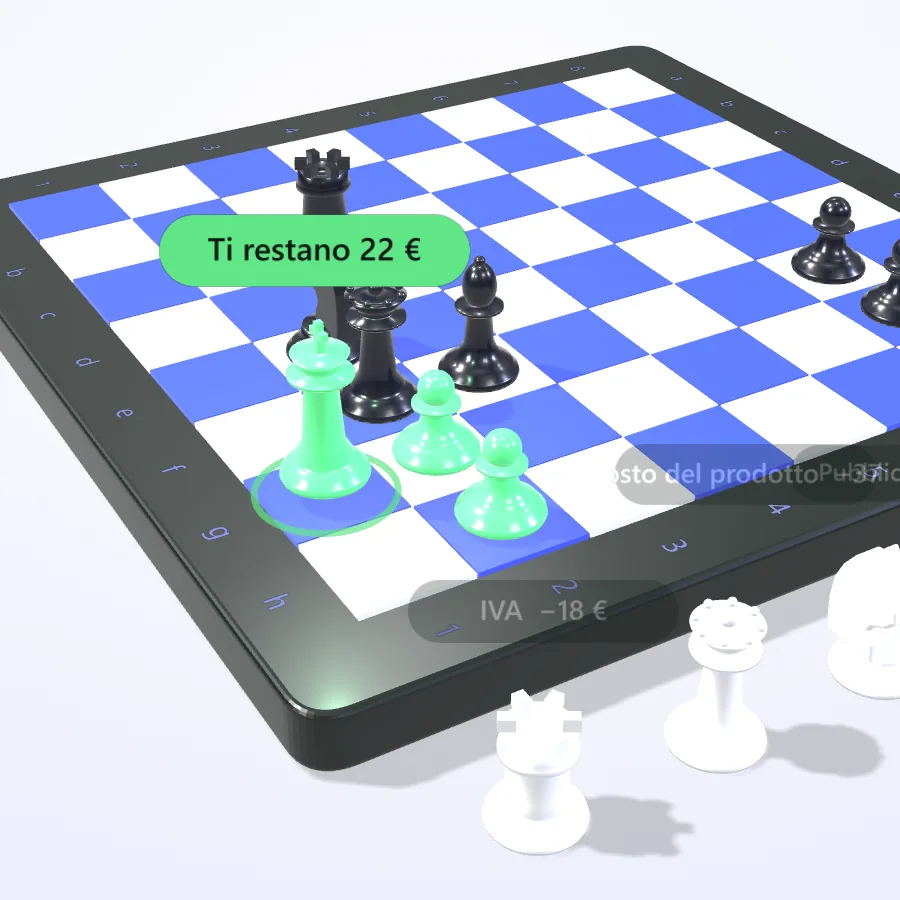
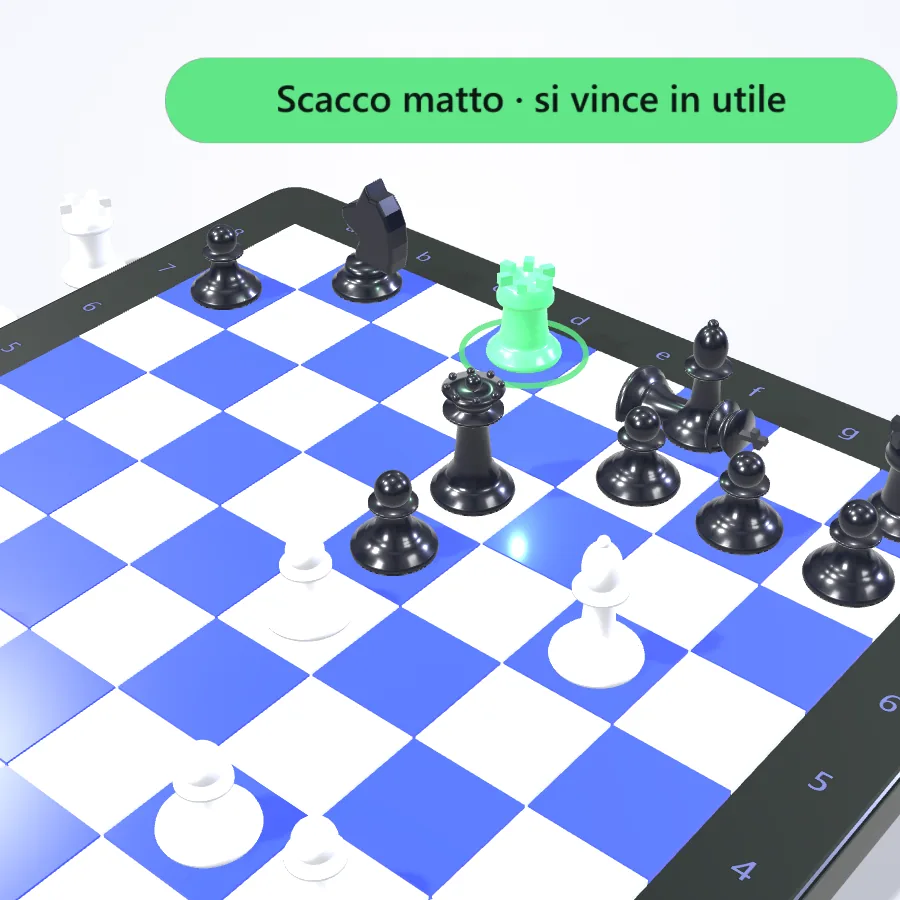
Home: la partita la vinciamo noi (Antonio, 29/10)
Finale dell'Opera Game di Morphy (Parigi 1858): ogni mossa bianca è un servizio
(feed, tracciamento, SEO e GEO, campagne col sacrificio della donna, i conti col matto).
Sotto la scacchiera la mossa al posto del contatore.

diff --git a/js/scacchi.js b/js/scacchi.js
@@ -1,29 +1,33 @@
-/* La partita a scacchi della home di orizonadv.it (29/10/2026, Antonio: «una scacchiera con una partita a scacchi»).
-   I bianchi sono i 100 € venduti, i neri sono i costi: ogni costo si mangia un pezzo (il più grosso, la regina, se lo
-   prende il costo del prodotto), i pezzi mangiati si mettono in fila accanto alla tavola col loro cartellino, alla fine
-   restano il re e due pedoni, verdi: 22 €. Valori d'esempio, gli stessi della home.
-   Uso: var s = OrizonScacchi(contenitore); s.set(p) con p da 0 a 1 (lo scorrimento) → {resta, fine}.
+/* La partita a scacchi della home di orizonadv.it (29/10/2026). Antonio: «vinciamola noi la partita… è la strategia
+   nostra che ci fa vincere, sono le varie funzioni… e si vince in utile». La partita è vera: il finale dell'«Opera
+   Game», Morphy contro il duca di Brunswick e il conte Isouard, Parigi 1858, dalla posizione dopo 12...Td8. Noi siamo
+   il Bianco: ogni mossa bianca è un servizio, la donna sacrificata sono le campagne (il budget dove rende), l'ultima
+   mossa, i conti, dà scacco matto e il re nero si abbatte.
+   Uso: var s = OrizonScacchi(contenitore); s.set(p) con p da 0 a 1 (lo scorrimento) → {mossa, fine}; s.mosse.
    Vuole THREE (three.js r128) e THREE.RoomEnvironment già caricati. */
 (function () {
   "use strict";
-  var MOSSE = [
-    {voce: "IVA",                eur: 18, chi: "c8", a: "c3"},
-    {voce: "Costo del prodotto", eur: 37, chi: "d8", a: "d4"},
-    {voce: "Pubblicità",         eur: 10, chi: "b7", a: "f3"},
-    {voce: "Resi",               eur:  9, chi: "g3", a: "e2"},
-    {voce: "Spedizioni",         eur:  4, chi: "d4", a: "f2"}   // la regina nera, che ha già mangiato in d4
+  var MOSSE = [  // mezze mosse in ordine; quelle bianche portano il servizio
+    {da: "d1", a: "d7", servizio: "Feed per Google e Meta", nota: "13. T×d7", frase: "Il prodotto giusto davanti a chi lo cerca."},
+    {da: "d8", a: "d7"},
+    {da: "h1", a: "d1", servizio: "Tracciamento", nota: "14. Td1", frase: "Ogni ordine contato, sul canale giusto."},
+    {da: "e7", a: "e6"},
+    {da: "b5", a: "d7", servizio: "Schede SEO e GEO", nota: "15. A×d7+", frase: "Trovati su Google e dalle AI."},
+    {da: "f6", a: "d7"},
+    {da: "b3", a: "b8", servizio: "Campagne", nota: "16. Db8+!!", frase: "Il budget va dove rende. Anche la regina."},
+    {da: "d7", a: "b8"},
+    {da: "d1", a: "d8", servizio: "I conti", nota: "17. Td8#", frase: "Scacco matto. Si vince in utile."}
   ];
-  var BIANCHI = {g1: "k", d4: "q", c3: "r", f3: "n", e2: "b", f2: "p", g2: "p", h2: "p"};
-  var NERI = {g8: "k", c8: "r", d8: "q", b7: "b", g3: "n", f7: "p", g7: "p", h7: "p"};
-  var RESTANO = ["g1", "g2", "h2"], MARGINE = 22;
+  var BIANCHI = {c1: "k", b3: "q", d1: "r", h1: "r", b5: "b", g5: "b", a2: "p", b2: "p", c2: "p", e4: "p", f2: "p", g2: "p", h2: "p"};
+  var NERI = {e8: "k", e7: "q", d8: "r", h8: "r", f8: "b", d7: "n", f6: "n", a7: "p", e5: "p", f7: "p", g7: "p", h7: "p"};
+  var PASSO = .085, INIZIO = .06, MATTO = .84;
 
   var c01 = function (v) { return v < 0 ? 0 : v > 1 ? 1 : v; };
   var liscio = function (t) { return t * t * (3 - 2 * t); };
   var uscita = function (t) { return 1 - Math.pow(1 - t, 3); };
-  var finestra = function (p, i) { return c01((p - .08 - i * .15) / .14); };
+  var finestra = function (p, k) { return c01((p - INIZIO - k * PASSO) / (PASSO * .92)); };
 
-  window.OrizonScacchi = function (el, opz) {
-    opz = opz || {};
+  window.OrizonScacchi = function (el) {
     var T = window.THREE, ridotto = matchMedia("(prefers-reduced-motion: reduce)").matches;
     var piccolo = Math.min(screen.width, screen.height) < 700;
     var casa = function (s) { return new T.Vector3(s.charCodeAt(0) - 97 - 3.5, .03, 3.5 - (+s[1] - 1)); };
@@ -51,8 +55,6 @@
     var luceVerde = new T.PointLight(0x60e787, 0, 5, 2); scena.add(luceVerde);
 
     var tavola = new T.Group(); scena.add(tavola);
-
-    // il piano sotto: solo l'ombra, lo sfondo è quello della pagina
     var terra = new T.Mesh(new T.PlaneGeometry(60, 60), new T.ShadowMaterial({opacity: .18}));
     terra.rotation.x = -Math.PI / 2; terra.position.y = -.62; terra.receiveShadow = true; tavola.add(terra);
 
@@ -117,55 +119,61 @@
       g.traverse(function (o) { if (o.isMesh) o.castShadow = o.receiveShadow = true; });
       return g;
     }
-    var matB = new T.MeshPhysicalMaterial({color: 0xf6f6f2, roughness: .22, clearcoat: 1, clearcoatRoughness: .06, sheen: 0});
+    var matB = new T.MeshPhysicalMaterial({color: 0xf6f6f2, roughness: .22, clearcoat: 1, clearcoatRoughness: .06});
     var matN = new T.MeshPhysicalMaterial({color: 0x0d1120, roughness: .2, metalness: .15, clearcoat: 1, clearcoatRoughness: .05});
-    var pezzi = {};
-    Object.keys(BIANCHI).forEach(function (s) {
-      var mat = RESTANO.indexOf(s) >= 0 ? matB.clone() : matB, g = pezzo(BIANCHI[s], mat);
-      g.position.copy(casa(s)); g.userData = {mat: mat, casa: casa(s)}; if (BIANCHI[s] === "n") g.rotation.y = Math.PI / 2;
-      tavola.add(g); pezzi["w" + s] = g;
+    var matMatto = matB.clone();  // la torre di h1, che dà il matto, diventa verde
+    var pezzi = [];
+    function metti(s, tipo, bianco) {
+      var g = pezzo(tipo, bianco ? (s === "h1" ? matMatto : matB) : matN);
+      if (tipo === "n") g.rotation.y = bianco ? Math.PI / 2 : -Math.PI / 2; else if (!bianco) g.rotation.y = Math.PI;
+      g.userData = {casa: casa(s), bianco: bianco, ry: g.rotation.y}; g.position.copy(g.userData.casa); tavola.add(g); pezzi.push(g); return g;
+    }
+    var su = {};
+    Object.keys(BIANCHI).forEach(function (s) { su[s] = metti(s, BIANCHI[s], true); });
+    Object.keys(NERI).forEach(function (s) { su[s] = metti(s, NERI[s], false); });
+    var reNero = su.e8;
+    // chi muove e chi viene preso a ogni mezza mossa; i pezzi presi si mettono in fila fuori dalla tavola, dal lato di chi li ha presi
+    var presiB = 0, presiN = 0;
+    MOSSE.forEach(function (m, k) {
+      m.k = k; m.chi = su[m.da]; m.preso = su[m.a] || null;
+      if (m.preso) m.fila = m.preso.userData.bianco ? new T.Vector3(-5.75, -.62, -2.6 + 1.5 * presiB++) : new T.Vector3(5.75, -.62, 2.6 - 1.5 * presiN++);
+      su[m.a] = m.chi; delete su[m.da];
     });
-    Object.keys(NERI).forEach(function (s) {
-      var g = pezzo(NERI[s], matN); g.position.copy(casa(s)); g.rotation.y = NERI[s] === "n" ? -Math.PI / 2 : Math.PI; tavola.add(g); pezzi["b" + s] = g;
-    });
-    var attori = MOSSE.map(function (m, i) { return {g: pezzi["b" + (i === 4 ? "d8" : m.chi)], da: casa(m.chi), a: casa(m.a), salta: m.chi === "g3"}; });
-    // i pezzi mangiati vanno in fila sul lato della tavola rivolto a chi guarda, ognuno col suo cartellino: lo scontrino
-    var vittime = MOSSE.map(function (m, i) { return {g: pezzi["w" + m.a], fila: new T.Vector3(5.75, -.62, 3.6 - i * 1.5)}; });
-    var restano = RESTANO.map(function (s) { return pezzi["w" + s]; });
+    var bianche = MOSSE.filter(function (m) { return m.servizio; });
 
     // i cartellini: pillole disegnate, sempre rivolte a chi guarda
     function pillola(testo, fondo, inchiostro) {
-      var w = 300, h = 76;
+      var w = Math.round(Math.max(200, testo.length * 16.5 + 64)), h = 76;
       var tx = scritta(testo, w, h, function (g, t, w, h) {
         g.fillStyle = fondo; var r = h / 2; g.beginPath(); g.moveTo(r, 4); g.arcTo(w - 4, 4, w - 4, h - 4, r - 4); g.arcTo(w - 4, h - 4, 4, h - 4, r - 4);
         g.arcTo(4, h - 4, 4, 4, r - 4); g.arcTo(4, 4, w - 4, 4, r - 4); g.closePath(); g.fill();
         g.fillStyle = inchiostro; g.font = "600 30px " + font; g.textAlign = "center"; g.textBaseline = "middle"; g.fillText(t, w / 2, h / 2 + 1);
       });
       var sp = new T.Sprite(new T.SpriteMaterial({map: tx, transparent: true, depthTest: false, toneMapped: false}));
-      sp.scale.set(1.7, .43, 1); sp.renderOrder = 10; sp.material.opacity = 0; tavola.add(sp); return sp;
+      sp.userData.r = w / h; sp.renderOrder = 10; sp.material.opacity = 0; tavola.add(sp); return sp;
     }
-    var cartellini = MOSSE.map(function (m) { return pillola(m.voce + "  −" + m.eur + " €", "#0c1713", "#ffffff"); });
-    var finale = pillola("Ti restano " + MARGINE + " €", "#60e787", "#0c1713"); finale.scale.set(2.3, .58, 1);
+    bianche.forEach(function (m) { m.cartello = pillola(m.servizio, m === bianche[bianche.length - 1] ? "#60e787" : "#3750f7", m === bianche[bianche.length - 1] ? "#0c1713" : "#ffffff"); });
+    var finale = pillola("Scacco matto · si vince in utile", "#60e787", "#0c1713");
 
-    // le schegge dell'impatto: poche, blu e bianche, legate al punto dello scorrimento (si riavvolgono)
-    var schegge = MOSSE.map(function (m, i) {
+    // le schegge delle prese: poche, blu e bianche, legate al punto dello scorrimento (si riavvolgono)
+    MOSSE.forEach(function (m, i) {
+      if (!m.preso) return;
       var mat = new T.MeshBasicMaterial({color: i % 2 ? 0x8191ff : 0xffffff, transparent: true, opacity: 0, toneMapped: false}), out = [];
       for (var k = 0; k < 14; k++) {
         var o = new T.Mesh(new T.OctahedronGeometry(.045 + (k % 3) * .015), mat), a = k / 14 * Math.PI * 2 + i;
         o.userData.dir = new T.Vector3(Math.cos(a), .9 + (k % 4) * .35, Math.sin(a)).multiplyScalar(.9 + (k % 5) * .18); tavola.add(o); out.push(o);
       }
-      return {mat: mat, pezzi: out};
+      m.schegge = {mat: mat, pezzi: out};
     });
 
-    // l'anello verde sotto il re, alla fine
+    // l'anello verde sotto la torre del matto
     var anello = new T.Mesh(new T.TorusGeometry(.46, .022, 12, 64), new T.MeshBasicMaterial({color: 0x60e787, transparent: true, opacity: 0, toneMapped: false}));
-    anello.rotation.x = -Math.PI / 2; anello.position.copy(casa("g1")); anello.position.y = .045; tavola.add(anello);
+    anello.rotation.x = -Math.PI / 2; anello.position.copy(casa("d8")); anello.position.y = .045; tavola.add(anello);
 
     // i colori scritti in esadecimale sono sRGB: senza conversione, con l'uscita sRGB, tutto viene slavato
     var visti = [];
     scena.traverse(function (o) {
-      var ms = o.material ? [].concat(o.material) : [];
-      ms.forEach(function (m) { if (visti.indexOf(m) >= 0) return; visti.push(m);
+      [].concat(o.material || []).forEach(function (m) { if (visti.indexOf(m) >= 0) return; visti.push(m);
         if (m.color && !m.map) m.color.convertSRGBToLinear();
         if (m.envMapIntensity !== undefined) m.envMapIntensity = .55; });
     });
@@ -178,59 +186,62 @@
     ["pointerup", "pointercancel"].forEach(function (k) { renderer.domElement.addEventListener(k, function () { trascina = null; }); });
 
     var p = 0, verde = new T.Color(0x60e787).convertSRGBToLinear(), bianco = new T.Color(0xf6f6f2).convertSRGBToLinear(), emVerde = new T.Color(0x1d9a52).convertSRGBToLinear(), nero = new T.Color(0);
-    var mira = new T.Vector3(), v = new T.Vector3(), t0 = performance.now(), esito = {resta: 100, fine: false};
+    var mira = new T.Vector3(), v = new T.Vector3(), t0 = performance.now(), esito = {mossa: -1, fine: false};
 
     function calcola() {
-      for (var k = attori.length - 1; k >= 0; k--) { attori[k].g.position.copy(attori[k].da); attori[k].g.rotation.x = 0; }
-      var tolto = 0, fuoco = null, forza = 0, scossa = 0;
-      MOSSE.forEach(function (m, i) {
-        var t = finestra(p, i), a = attori[i], x = vittime[i], c = cartellini[i], sc = schegge[i];
-        x.g.position.copy(x.g.userData.casa); x.g.rotation.set(0, x.g.rotation.y, 0); c.material.opacity = 0; sc.mat.opacity = 0;
-        sc.pezzi.forEach(function (o) { o.visible = false; });
+      pezzi.forEach(function (g) { g.position.copy(g.userData.casa); g.rotation.set(0, g.userData.ry, 0); g.visible = true; });
+      var fuoco = null, forza = 0, scossa = 0, mossa = -1;
+      MOSSE.forEach(function (m) {
+        var t = finestra(p, m.k), chi = m.chi;
+        if (m.schegge) { m.schegge.mat.opacity = 0; m.schegge.pezzi.forEach(function (o) { o.visible = false; }); }
+        if (m.cartello) m.cartello.material.opacity = 0;
         if (t <= 0) return;
-        // il nero arriva: scivola con un piccolo inchino, il cavallo salta
-        var corsa = liscio(c01(t / .5));
-        a.g.position.lerpVectors(a.da, a.a, corsa);
-        a.g.position.y = .03 + Math.sin(Math.PI * corsa) * (a.salta ? 1.2 : .4);
-        a.g.rotation.x = Math.sin(Math.PI * corsa) * (a.salta ? 0 : -.12);
-        // l'urto: il bianco vola via ruotando e atterra in piedi nella fila
-        var via = c01((t - .42) / .5), u = uscita(via);
-        x.g.position.lerpVectors(x.g.userData.casa, x.fila, u);
-        x.g.position.y += Math.sin(Math.PI * via) * 1.8;
-        x.g.rotation.x = Math.sin(Math.PI * via) * 2.4 * (i % 2 ? -1 : 1);
-        var imp = c01((t - .45) / .35);
-        if (imp > 0 && imp < 1) {
-          sc.mat.opacity = 1 - imp;
-          sc.pezzi.forEach(function (o) { o.visible = true; o.position.copy(a.a).addScaledVector(o.userData.dir, uscita(imp) * 1.1); o.position.y += .3 - imp * imp * .9; o.rotation.set(imp * 6, imp * 4, 0); });
-          scossa = Math.max(scossa, (1 - imp) * (m.eur / 37));
+        var da = casa(m.da), a = casa(m.a), salta = chi === su.b8 || (m.da === "f6");
+        // chi muove: scivola con un piccolo inchino (il cavallo salta); il pezzo si solleva un poco mentre va
+        var corsa = liscio(c01(t / .55));
+        chi.position.lerpVectors(da, a, corsa);
+        chi.position.y = .03 + Math.sin(Math.PI * corsa) * (salta ? 1.2 : .45);
+        chi.rotation.x = Math.sin(Math.PI * corsa) * (salta ? 0 : (chi.userData.bianco ? .12 : -.12));
+        if (m.preso) {  // la presa: il pezzo vola via ruotando e atterra in piedi nella fila
+          var via = c01((t - .45) / .5), u = uscita(via), x = m.preso;
+          x.position.lerpVectors(a, m.fila, u); x.position.y += Math.sin(Math.PI * via) * 1.8;
+          x.rotation.x = Math.sin(Math.PI * via) * 2.4 * (m.k % 2 ? -1 : 1);
+          var imp = c01((t - .48) / .4);
+          if (imp > 0 && imp < 1) {
+            m.schegge.mat.opacity = 1 - imp;
+            m.schegge.pezzi.forEach(function (o) { o.visible = true; o.position.copy(a).addScaledVector(o.userData.dir, uscita(imp) * 1.1); o.position.y += .3 - imp * imp * .9; o.rotation.set(imp * 6, imp * 4, 0); });
+            scossa = Math.max(scossa, 1 - imp);
+          }
         }
-        c.material.opacity = liscio(c01((t - .8) / .2)) * (1 - liscio(c01((p - .84) / .1)));
-        c.position.copy(x.fila); c.position.y += 1.75 + (i % 2) * .5;
-        tolto += m.eur * liscio(c01((t - .45) / .45));
-        var f = Math.sin(Math.PI * c01(t));
-        if (f > forza) { forza = f; fuoco = a.a; }
+        if (m.servizio) {  // il cartellino del servizio sopra la casa d'arrivo, finché risponde il Nero
+          mossa = bianche.indexOf(m);
+          var dopo = finestra(p, m.k + 1), ultima = m === bianche[bianche.length - 1];
+          m.cartello.material.opacity = liscio(c01((t - .35) / .3)) * (ultima ? 1 - liscio(c01((p - MATTO) / .05)) : 1 - liscio(c01((dopo - .6) / .4)));
+          m.cartello.position.copy(a); m.cartello.position.y += 2.3;
+        }
+        var fz = Math.sin(Math.PI * c01(t)) * (m.servizio ? 1 : .6);
+        if (fz > forza) { forza = fz; fuoco = a; }
       });
-      var fine = liscio(c01((p - .84) / .12));
-      restano.forEach(function (g, i) {
-        var mat = g.userData.mat; mat.color.copy(bianco).lerp(verde, fine); mat.emissive.copy(nero).lerp(emVerde, fine * .8);
-        g.position.y = .03 + (i === 0 ? .18 : .06) * fine;
-      });
-      var ora = (performance.now() - t0) / 1000;
+      // il matto: il re nero si abbatte, la torre diventa verde con l'anello di luce
+      var fine = liscio(c01((p - MATTO) / .1)), ora = (performance.now() - t0) / 1000;
+      reNero.rotation.z = fine * 1.42; reNero.rotation.x = fine * .25; reNero.position.x += fine * .32; reNero.position.y = .03 + Math.sin(Math.PI * fine) * .25;
+      matMatto.color.copy(bianco).lerp(verde, fine); matMatto.emissive.copy(nero).lerp(emVerde, fine * .8);
       anello.material.opacity = fine * (.75 + .25 * Math.sin(ora * 2.4));
       var sca = 1 + fine * (.25 + .08 * Math.sin(ora * 2.4)); anello.scale.set(sca, sca, sca);
-      luceVerde.intensity = fine * 1.4; luceVerde.position.copy(casa("g1")); luceVerde.position.y = 2.4;
-      finale.material.opacity = liscio(c01((p - .9) / .08)); finale.position.copy(casa("g1")); finale.position.y = 2.15;
+      luceVerde.intensity = fine * 1.4; luceVerde.position.copy(casa("d8")); luceVerde.position.y = 2.4;
+      finale.material.opacity = liscio(c01((p - .9) / .06)); finale.position.copy(casa("d8")); finale.position.y = 2.6;
+      if (fine > 0) scossa = Math.max(scossa, Math.sin(Math.PI * c01(fine * 1.6)) * .8);
 
-      // la camera: gira piano con lo scorrimento, si avvicina a ogni presa, alla fine va sul re
+      // la camera: dal lato del Bianco, gira piano, si avvicina a ogni mossa, alla fine va sul matto
       var asp = cam.aspect || 1, lontano = asp < 1 ? Math.pow(1 / asp, .75) : 1;
-      var az = .62 + p * .42 + extra + (ridotto ? 0 : Math.sin(ora * .32) * .025), el = .78 - fine * .2, rg = (23 - forza * 2) * lontano * (1 - fine * .38);
-      mira.set(1.5, -.9, .1);
-      if (fuoco) mira.lerp(v.copy(fuoco), forza * .3);
-      mira.lerp(v.copy(casa("g1")).setY(.2), fine * .6);
+      var az = .28 + p * .4 + extra + (ridotto ? 0 : Math.sin(ora * .32) * .025), el = .8 - fine * .18, rg = (22 - forza * 2.2) * lontano * (1 - fine * .24);
+      mira.set(.3, -.8, .2);
+      if (fuoco) mira.lerp(v.copy(fuoco), forza * .32);
+      mira.lerp(v.copy(casa("d8")).setY(.3), fine * .6);
       cam.position.set(mira.x + Math.sin(az) * Math.cos(el) * rg, mira.y + Math.sin(el) * rg, mira.z + Math.cos(az) * Math.cos(el) * rg);
       if (!ridotto && scossa > 0) { cam.position.x += Math.sin(ora * 60) * scossa * .05; cam.position.y += Math.cos(ora * 53) * scossa * .05; }
       cam.lookAt(mira);
-      esito.resta = Math.round(100 - tolto); esito.fine = p >= .9;
+      esito.mossa = mossa; esito.fine = p >= .9;
     }
 
     var vivo = false, sporco = true;
@@ -238,7 +249,7 @@
       var w = el.clientWidth, h = el.clientHeight; if (!w || !h) return;
       renderer.setSize(w, h, false); cam.aspect = w / h; cam.updateProjectionMatrix(); sporco = true;
       var k = w < 520 ? 1.3 : 1;  // sul telefono i cartellini un po' più grandi
-      cartellini.forEach(function (c) { c.scale.set(1.7 * k, .43 * k, 1); }); finale.scale.set(2.3 * k, .58 * k, 1);
+      bianche.concat([{cartello: finale}]).forEach(function (m) { var c = m.cartello, hh = c === finale ? .82 : .7 * k; /* la scritta finale è lunga: sul telefono resta com'è */ c.scale.set(hh * c.userData.r, hh, 1); });
     }
     if (window.ResizeObserver) new ResizeObserver(misura).observe(el); else window.addEventListener("resize", misura);
     misura();
@@ -252,7 +263,7 @@
 
     return {
       set: function (v) { p = c01(v); sporco = true; calcola(); return esito; },
-      mosse: MOSSE
+      mosse: bianche.map(function (m) { return {servizio: m.servizio, nota: m.nota, frase: m.frase}; })
     };
   };
 })();

diff --git a/index.html b/index.html
@@ -137,13 +137,15 @@ html.scena .frasi .w{color:var(--spento)} html.scena .frasi .w.on{color:var(--fg
 .cel i:nth-child(1){transform:translateZ(calc(var(--u)/2))} .cel i:nth-child(2){transform:rotateY(180deg) translateZ(calc(var(--u)/2))} .cel i:nth-child(3){transform:rotateY(90deg) translateZ(calc(var(--u)/2))}
 .cel i:nth-child(4){transform:rotateY(-90deg) translateZ(calc(var(--u)/2))} .cel i:nth-child(5){transform:rotateX(90deg) translateZ(calc(var(--u)/2))} .cel i:nth-child(6){transform:rotateX(-90deg) translateZ(calc(var(--u)/2))}
 .contatore{margin-top:8px;text-align:center;font-size:14px;color:var(--mut)} .contatore b{display:block;font-size:34px;color:var(--verde);letter-spacing:-.02em;font-variant-numeric:tabular-nums}
-/* la partita a scacchi (29/10, Antonio: «una scacchiera con una partita… più sexy»): i costi mangiano i pezzi bianchi,
-   resta il re verde. three.js si carica solo vicino alla sezione; prima, e con «riduci movimento», si vede la foto finale */
+/* la partita a scacchi (29/10, Antonio: «vinciamola noi… sono le varie funzioni che ci fanno vincere»): il finale
+   dell'Opera Game di Morphy, ogni mossa bianca è un servizio, l'ultima dà scacco matto. three.js si carica solo vicino alla sezione; prima, e con «riduci movimento», si vede la foto finale */
 .scacchi{display:grid;justify-items:center;width:100%}
 .palco-sc{position:relative;width:min(100%,calc(100svh - 230px));aspect-ratio:1;border-radius:28px;overflow:hidden;background:radial-gradient(110% 80% at 50% 25%,#fff,var(--bg2))}
 .palco-sc .sc-poster,.palco-sc .sc-tela{position:absolute;inset:0;width:100%!important;height:100%!important;display:block;object-fit:cover}
+.mossa-sc{margin-top:12px;display:grid;justify-items:center;gap:2px;text-align:center;min-height:5.2em} .mossa-sc .n{font:500 13px var(--fm);color:var(--mut);letter-spacing:.02em}
+.mossa-sc b{font-size:clamp(24px,2.4vw,32px);letter-spacing:-.025em;color:var(--blu2);line-height:1.15} .mossa-sc b.verde{color:var(--verde)} .mossa-sc span:last-child{font-size:15px;color:var(--mut)}
+.morphy{margin-top:6px;font-size:12px;color:var(--mut);opacity:.75;text-align:center}
 .palco-sc .sc-tela,.palco-sc .sc-poster{transition:opacity .5s} .palco-sc .sc-tela{opacity:0;touch-action:pan-y} .palco-sc.sc-pronto .sc-tela{opacity:1} .palco-sc.sc-pronto .sc-poster{opacity:0}
-.resta{margin-top:10px;text-align:center;font-size:14px;color:var(--mut)} .resta b{display:block;font-size:40px;letter-spacing:-.03em;color:var(--fg);font-variant-numeric:tabular-nums} .resta b.verde{color:var(--verde)}
 /* la mappa dei servizi: Orizon al centro, i rami che si accendono col dito (alla Obsidian) */
 .mappa2 .fisso{align-content:center} .mappa2 .wrap{display:grid;grid-template-columns:minmax(0,.62fr) minmax(0,1.38fr);gap:clamp(20px,3vw,48px);align-items:center;width:100%}
 .grafo{position:relative;width:100%;aspect-ratio:10/7}
@@ -255,7 +257,7 @@ html.entra .pannello .tenda{display:block} html.entra .rv{opacity:0;transform:tr
   .servizi{grid-template-columns:1fr 1fr} .srv{padding:16px} .srv b{font-size:15.5px} .srv span{font-size:13.5px}
   .ign-box,.parl,.squadra{grid-template-columns:1fr} .crea{grid-template-columns:1fr 1fr} .agenti{grid-template-columns:1fr 1fr}
   form{grid-template-columns:1fr} .foto-vuota{aspect-ratio:4/3} .agenti{grid-auto-rows:auto} .agente{gap:12px;padding:12px 14px} .agente img{width:52px;height:52px} .agente b{font-size:15px} .agente span{font-size:13px}
-  .palco-sc{width:min(100%,46svh);border-radius:20px} .resta{margin-top:6px} .resta b{font-size:30px}
+  .palco-sc{width:min(100%,44svh);border-radius:20px} .mossa-sc{margin-top:6px;min-height:4.6em} .mossa-sc b{font-size:22px} .mossa-sc span:last-child{font-size:14px} .morphy{display:none}
   html.scena .mappa2 .pista{height:auto} html.scena .mappa2 .fisso{position:relative;top:auto;height:auto;overflow:visible;padding-block:56px 40px} #ramo-ora{display:none}
   .rami-schede{display:flex;gap:12px;overflow-x:auto;scroll-snap-type:x mandatory;margin:0 calc(-1 * max(16px,env(safe-area-inset-left,0px)));padding:4px max(16px,env(safe-area-inset-left,0px)) 12px;scrollbar-width:none} .rami-schede::-webkit-scrollbar{display:none}
   .rami-schede{counter-reset:ramo} .rami-schede .scheda-ramo{position:relative;overflow:hidden;counter-increment:ramo;gap:14px;padding:22px 20px 20px} .rami-schede .scheda-ramo::before{content:"";position:absolute;inset:0 0 auto;height:3px;background:linear-gradient(90deg,var(--blu),#60e787)} .rami-schede .scheda-ramo .num{display:none} .rami-schede .tit::after{content:"0" counter(ramo) " / 06";margin-left:auto;font-size:12px;font-weight:600;color:var(--mut);font-variant-numeric:tabular-nums} .rami-schede .tit img{width:52px;height:52px;box-shadow:0 0 0 4px color-mix(in srgb,var(--blu) 10%,transparent)} .rami-schede .tit h3{font-size:22px} .rami-schede .elenco span{background:color-mix(in srgb,var(--blu) 7%,var(--pieno));border-color:color-mix(in srgb,var(--blu) 20%,transparent);color:var(--fg);font-weight:500}
@@ -321,7 +323,7 @@ html.entra .pannello .tenda{display:block} html.entra .rv{opacity:0;transform:tr
 
 <section class="tesi2" style="padding-block:0"><div class="pista" style="--h:calc(3.2 * 100svh)"><div class="fisso"><div class="wrap">
   <div class="frasi"><p><span class="w">Le</span> <span class="w">campagne</span> <span class="w">alzano</span> <span class="w">il</span> <span class="w">fatturato.</span></p><p><span class="w">Il</span> <span class="w">fatturato</span> <span class="w">non</span> <span class="w">è</span> <span class="w">l&#x27;utile.</span></p><p><span class="w">Noi</span> <span class="w">guidiamo</span> <span class="w">sull&#x27;utile.</span></p></div>
-  <div class="scacchi" aria-hidden="true"><div class="palco-sc" id="scacchi"><img class="sc-poster" src="img/home/scacchi-poster.webp" alt="" width="900" height="900" loading="lazy" decoding="async"></div><p class="resta"><b id="resta" class="verde">22 €</b>ti restano, su 100 € venduti · esempio</p></div>
+  <div class="scacchi" aria-hidden="true"><div class="palco-sc" id="scacchi"><img class="sc-poster" src="img/home/scacchi-poster.webp" alt="" width="900" height="900" loading="lazy" decoding="async"></div><p class="mossa-sc"><span class="n" id="sc-nota">17. Td8#</span><b id="sc-servizio" class="verde">I conti</b><span id="sc-frase">Scacco matto. Si vince in utile.</span></p><p class="morphy">La partita è vera: Morphy, Parigi 1858. Noi giochiamo col Bianco.</p></div>
 </div></div></div></section>
 
 <section id="servizi" class="mappa2" style="padding-block:0"><div class="pista" style="--h:calc(2.8 * 100svh)"><div class="fisso"><div class="wrap">
@@ -390,9 +392,14 @@ html.entra .pannello .tenda{display:block} html.entra .rv{opacity:0;transform:tr
   if (!rm) {
     document.documentElement.classList.add('scena');
     var tesi = $('.tesi2 .pista'), ris = $('.ris2 .pista');
-    var parole = $$('.frasi .w'), resta = $('#resta'), sc = null, carica = false;
-    // finché la partita non è pronta il conto va avanti da solo, con gli stessi tempi (valori d'esempio)
-    var COSTI = [18, 37, 10, 9, 4], conto = function(p){ var t = 0; COSTI.forEach(function(e, i){ var x = c01((c01((p - .08 - i*.15)/.14) - .45)/.45); t += e*x*x*(3 - 2*x); }); return {resta: Math.round(100 - t), fine: p >= .9}; };
+    var parole = $$('.frasi .w'), sc = null, carica = false, scN = $('#sc-nota'), scS = $('#sc-servizio'), scF = $('#sc-frase'), mostrata = null;
+    // le mosse bianche (Opera Game, Morphy 1858): ognuna è un servizio. Finché la scena non è pronta la didascalia va avanti da sola, con gli stessi tempi
+    var MOSSE = [['13. T×d7', 'Feed per Google e Meta', 'Il prodotto giusto davanti a chi lo cerca.'], ['14. Td1', 'Tracciamento', 'Ogni ordine contato, sul canale giusto.'],
+      ['15. A×d7+', 'Schede SEO e GEO', 'Trovati su Google e dalle AI.'], ['16. Db8+!!', 'Campagne', 'Il budget va dove rende. Anche la regina.'], ['17. Td8#', 'I conti', 'Scacco matto. Si vince in utile.']];
+    var quale = function(p){ var n = -1; MOSSE.forEach(function(m, i){ if (p >= .06 + 2*i*.085) n = i; }); return {mossa: n, fine: p >= .9}; };
+    function didascalia(r){ var k = r.mossa + (r.fine ? 'f' : ''); if (k === mostrata) return; mostrata = k;
+      var m = r.mossa < 0 ? ['12. … Td8', 'Tocca a noi', 'Giochiamo col Bianco. Ogni mossa è un servizio.'] : MOSSE[r.mossa];
+      scN.textContent = m[0]; scS.textContent = m[1]; scF.textContent = m[2]; scS.classList.toggle('verde', r.mossa === MOSSE.length - 1); }
     function partita(){ if (carica) return; carica = true;
       var fila = ['js/three.min.js', 'js/RoomEnvironment.js', 'js/scacchi.js'], prossimo = function(){
         if (!fila.length) { try { sc = window.OrizonScacchi($('#scacchi')); } catch (e) { sc = null; } if (sc) sc.set(prog(tesi)); return; }
@@ -406,7 +413,7 @@ html.entra .pannello .tenda{display:block} html.entra .rv{opacity:0;transform:tr
     function scena(){ vuoto = false;
       if (vicino(tesi)) { var p = prog(tesi), n = Math.round(c01((p - .04)/.78) * parole.length);
         parole.forEach(function(w, i){ w.classList.toggle('on', i < n); });
-        partita(); var r = sc ? sc.set(p) : conto(p); resta.textContent = r.resta + ' €'; resta.classList.toggle('verde', r.fine); }
+        partita(); didascalia(sc ? sc.set(p) : quale(p)); }
       if (vicino(mappa)) { var m = matchMedia('(max-width: 860px)').matches ? .97 : prog(mappa), att = Math.min(RAMI.length - 1, Math.floor(c01((m - .04)/.8) * RAMI.length));
         $$('path[data-r]', grafo).forEach(function(pa){ var r = +pa.dataset.r, i = pa.dataset.i, t0 = .04 + r*(.8/RAMI.length), t = c01((m - t0 - (i ? .03 + i*.02 : 0))/.06); pa.style.setProperty('--d', (1 - t).toFixed(3)); });
         $$('.nodo[data-r], circle[data-r]', grafo).forEach(function(nd){ var r = +nd.dataset.r, i = nd.dataset.i, t0 = .04 + r*(.8/RAMI.length), t = c01((m - t0 - (i ? .05 + i*.02 : .03))/.05);
